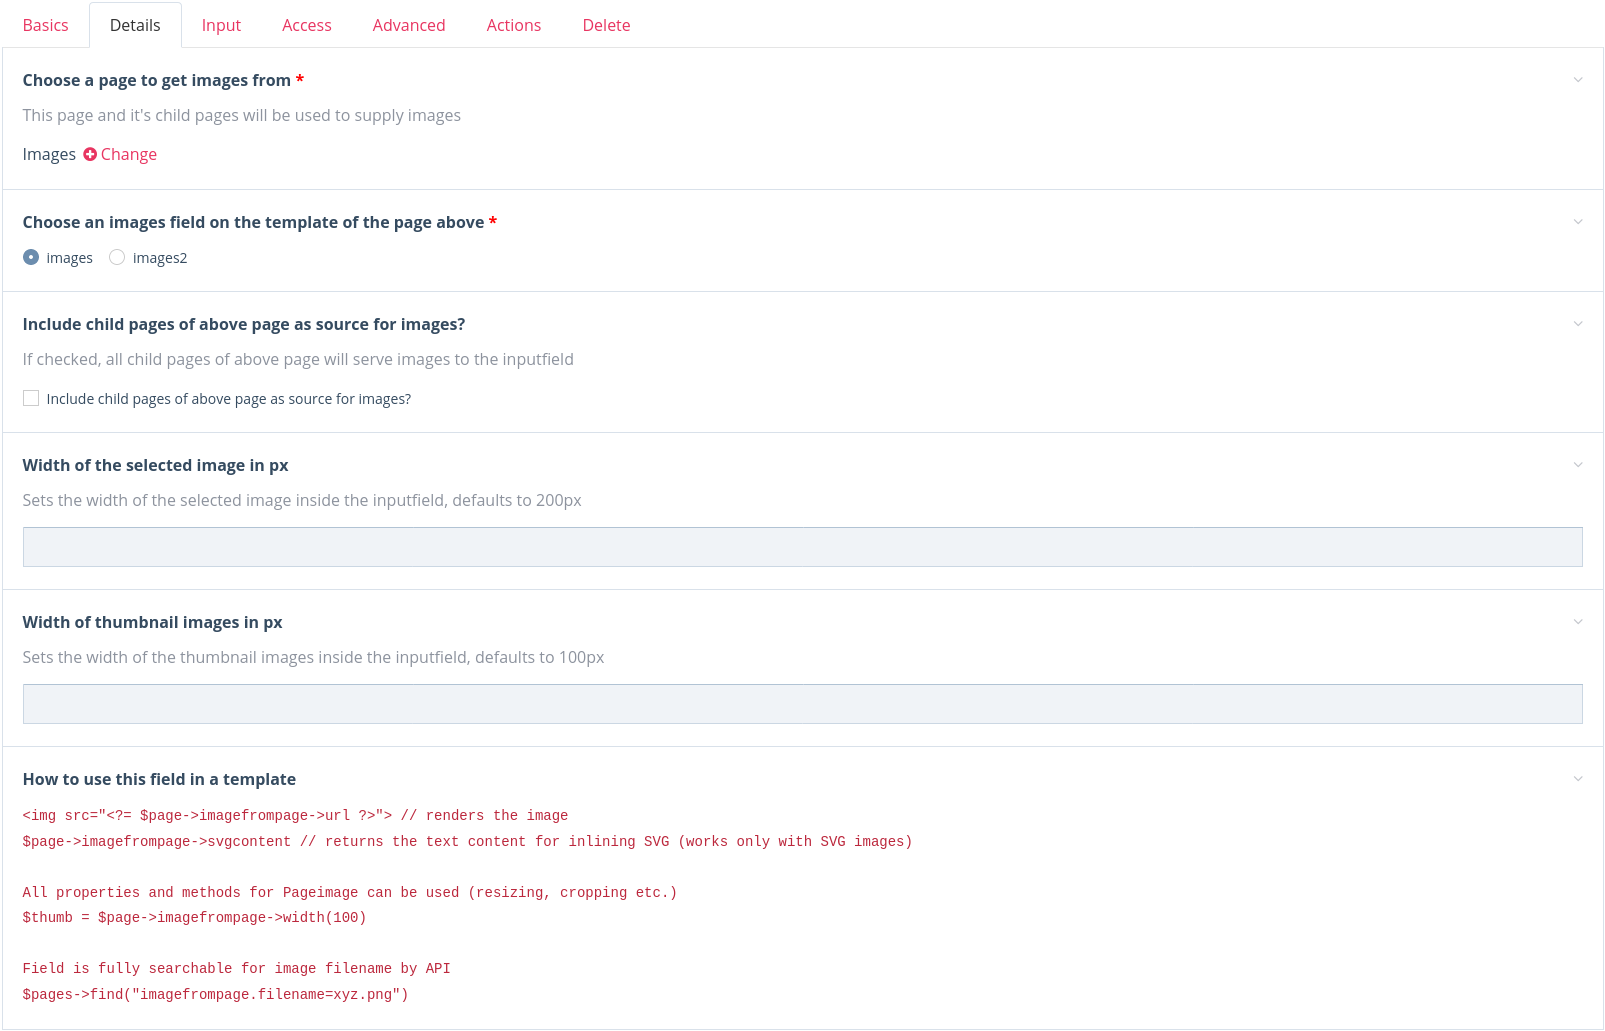
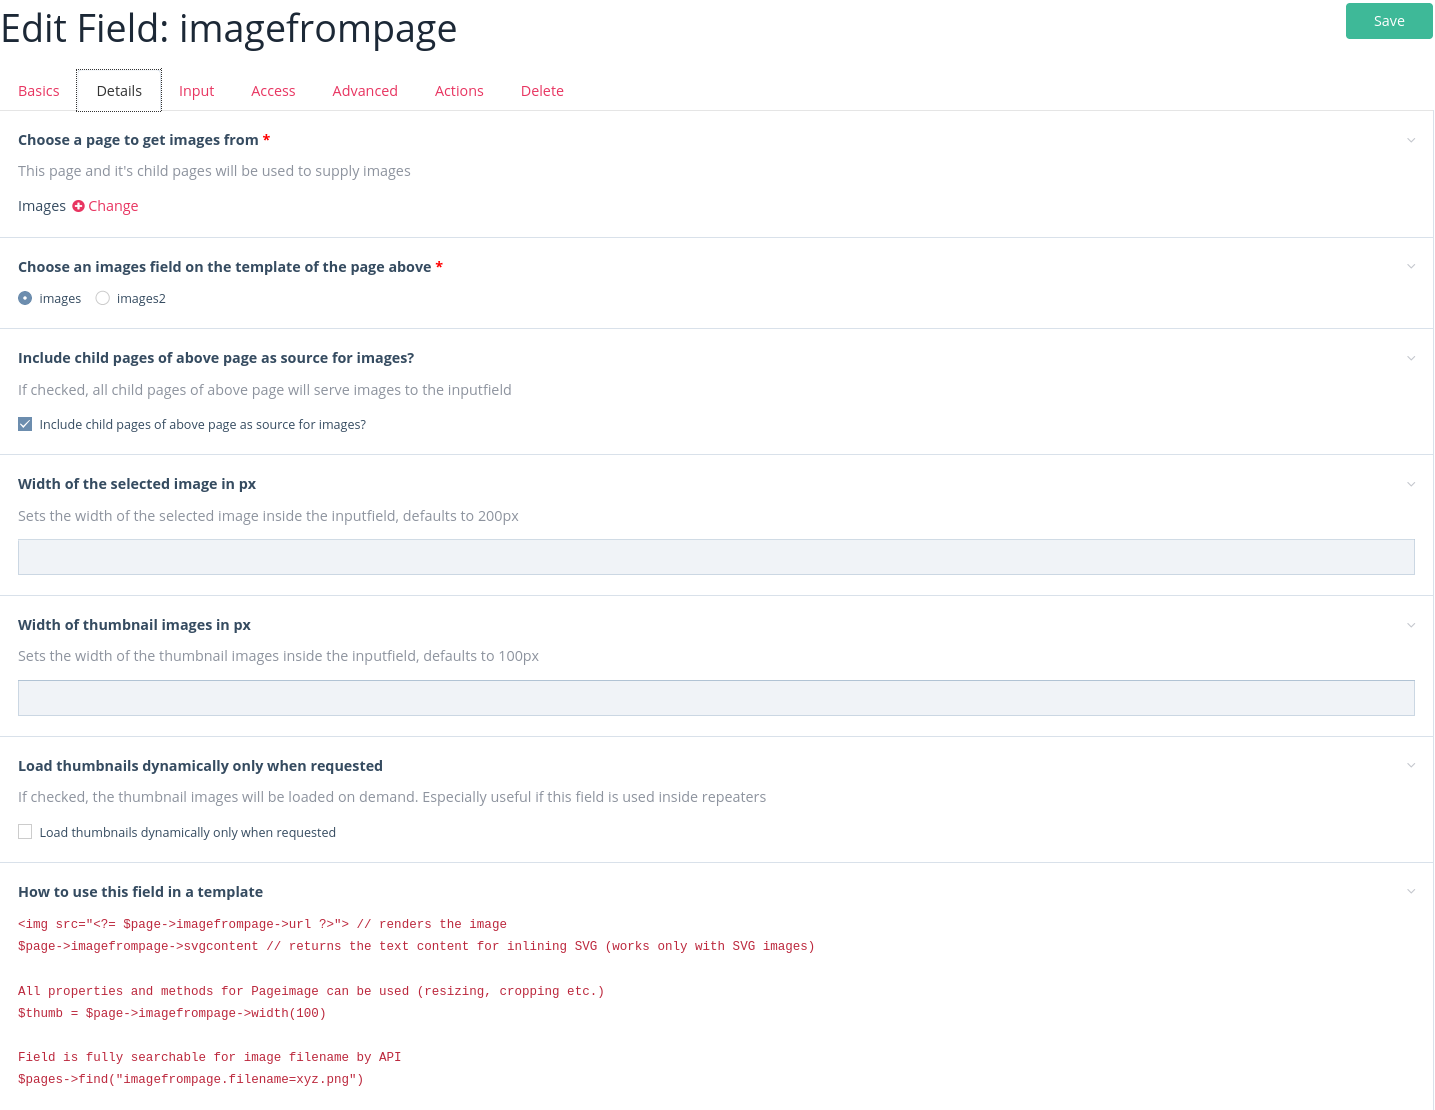
edit link to image page

diff --git a/InputfieldImageFromPage.js b/InputfieldImageFromPage.js
@@ -1,11 +1,13 @@
 var InputfieldImageFromPage = {
     init: function () {
         // console.log('init');
+        InputfieldImageFromPage.loader = "<svg width=\"38\" height=\"38\" xmlns=\"http://www.w3.org/2000/svg\" stroke=\"#000\"><g transform=\"translate(1 1)\" stroke-width=\"2\" fill=\"none\" fill-rule=\"evenodd\"><circle stroke-opacity=\".5\" cx=\"18\" cy=\"18\" r=\"18\"/><path d=\"M36 18c0-9.94-8.06-18-18-18\"><animateTransform attributeName=\"transform\" type=\"rotate\" from=\"0 18 18\" to=\"360 18 18\" dur=\"1s\" repeatCount=\"indefinite\"/></path></g></svg>";
         var fields = document.querySelectorAll('.InputfieldImageFromPage');
         fields.forEach(field => {
             if (field.classList.contains('imagefrompage_initialised')) return;
             InputfieldImageFromPage.initPickFile(field);
         });
+        InputfieldImageFromPage.initModalEditImages();
     },
     initPickFile: function (field) {
         if (!field.classList.contains('imagefrompage_initialised')) field.classList.add('imagefrompage_initialised');
@@ -48,23 +50,39 @@ var InputfieldImageFromPage = {
                 var closed = th.classList.contains('InputfieldStateCollapsed');
                 var empty = thumbnav.querySelector('li') === null;
                 if (closed && empty) {
-                    fetch(url)
-                        .then(function (response) {
-                            if (!response.ok) {
-                                throw Error(response.statusText);
-                            }
-                            return response.text();
-                        })
-                        .then(function (html) {
-                            thumbnav.innerHTML = html;
-                            InputfieldImageFromPage.initPickFile(field);
-                        })
-                        .catch(function (error) {
-                            console.log('Looks like there was a problem: \n', error);
-                        });
+                    InputfieldImageFromPage.fetchAndInsertThumbnails(url, thumbnav, field);
                 }
             })
         });
+    },
+    fetchAndInsertThumbnails: function(url, thumbnav, field) {
+        thumbnav.innerHTML = InputfieldImageFromPage.loader;
+        fetch(url)
+        .then(function (response) {
+            if (!response.ok) {
+                throw Error(response.statusText);
+            }
+            return response.text();
+        })
+        .then(function (html) {
+            thumbnav.innerHTML = html;
+            InputfieldImageFromPage.initPickFile(field);
+        })
+        .catch(function (error) {
+            console.log('Looks like there was a problem: \n', error);
+        });
+    },
+    initModalEditImages: function() {
+        $(document).on("pw-modal-closed", function(event, ui) {
+                if($(event.target).hasClass('imagefrompage_editimages')) {
+                    var link = $(event.target);
+                    var field = link.closest('.InputfieldImageFromPage')[0];
+                    var thumbnav = link.siblings('.uk-thumbnav')[0];
+                    var pageid = thumbnav.getAttribute('data-pageid');
+                    var url = ProcessWire.config.InputfieldImageFromPage.url + '&pageid=' + pageid;
+                    InputfieldImageFromPage.fetchAndInsertThumbnails(url, thumbnav, field);
+                }
+        })        
     }
 }
 

diff --git a/InputfieldImageFromPage.css b/InputfieldImageFromPage.css
@@ -29,3 +29,13 @@
     margin-top: 1rem;
     word-wrap: break-word;
 }
+
+.InputfieldImageFromPage .InputfieldMarkup  .InputfieldContent {
+    position: relative;
+}
+
+.InputfieldImageFromPage .InputfieldMarkup  .InputfieldContent .imagefrompage_editimages {
+    position: absolute;
+    right: 50px;
+    top: -40px;
+}

diff --git a/README.md b/README.md
@@ -10,10 +10,11 @@
 
 * The page containing the images to choose from.
     - images from that page and it's child pages will be used as site-wide images.
-* The field name of the images field on that page
-* option to include images from child pages of the page that contains images
-* Width of chosen image in Inputfield
-* Width of image thumbnails in Inputfield 
+* The field name of the images field on that page.
+* Option to include images from child pages of the page that contains images
+* Option to load thumbnails on demand via ajax. Especially useful when field is used inside repeaters or has many images
+* Width of chosen image in Inputfield.
+* Width of image thumbnails in Inputfield.
 
 ![Inputfield Settings](images/field-settings.png)
 
@@ -37,6 +38,7 @@ $pages->find('fieldname.filename=xyz.png');
 $pages->find('fieldname.filename%=xy.png');
 ```
 * Accidental image deletion is prevented. When you want to delete an image from one of the pages that hold your site-wide images, the module searches all pages that use that image. If any page contains a reference to the image you are trying to delete, deletion will be prevented. You will get an error message to help you edit those pages and remove references there before you can finally delete the image.
+* Image thumbnails loaded into inputfield on demand
 
 
 ### How to install and setup
